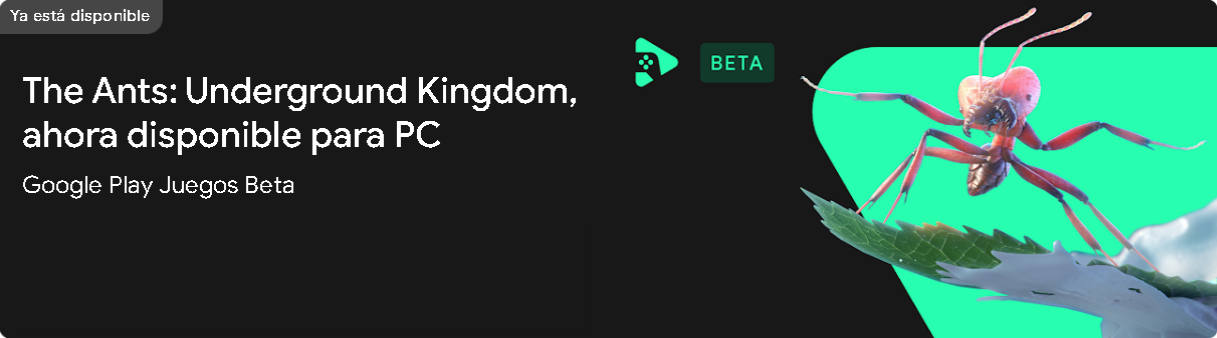
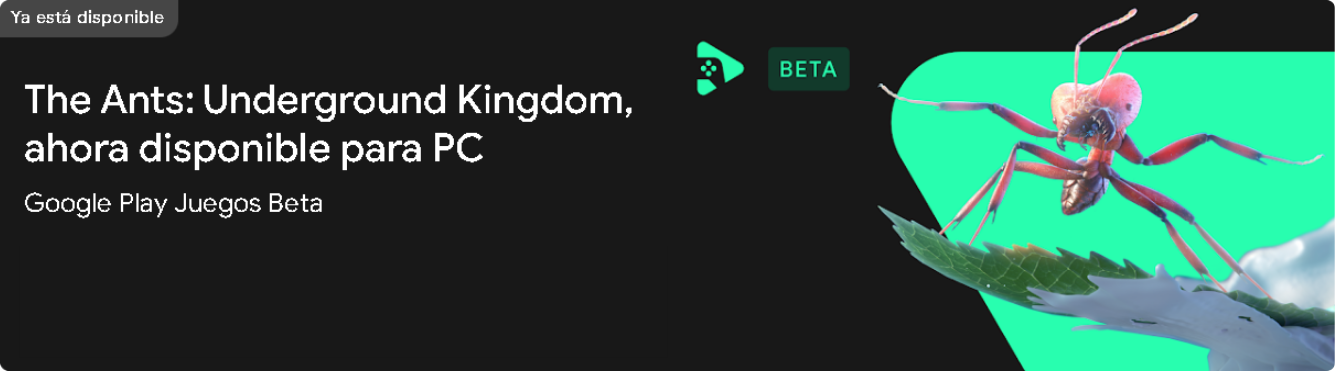
ok

diff --git a/index.html b/index.html
@@ -46,7 +46,7 @@
                     <img src="img/logo.png" class="logo_game">
                     <div class="text_game">
                         <h4>Arknights</h4>
-                        <p>Estrategia • Defensa de torres 4.6 &#9733;</p>
+                        <p>Estrategia • Defensa de torres</p>
                         <p>4.6 &#9733;</p>
                     </div>
                 </div>
@@ -58,7 +58,7 @@
                     <img src="img/logo2.png" class="logo_game">
                     <div class="text_game">
                         <h4>Arknights</h4>
-                        <p>Estrategia • Defensa de torres 4.6 &#9733;</p>
+                        <p>Estrategia • Defensa de torres</p>
                         <p>4.6 &#9733;</p>
                     </div>
                 </div>
@@ -70,7 +70,7 @@
                     <img src="img/logo3.png" class="logo_game">
                     <div class="text_game">
                         <h4>Arknights</h4>
-                        <p>Estrategia • Defensa de torres 4.6 &#9733;</p>
+                        <p>Estrategia • Defensa de torres</p>
                         <p>4.6 &#9733;</p>
                     </div>
                 </div>
@@ -79,8 +79,20 @@
             <section id="anuncio">
                 <img src="img/anuncio.png" class="anuncio">
             </section>
-            <section id="anuncio2">
-            
+            <section class="contenedor">
+                <section id="anuncio2">
+                    <div class="info_anuncio">
+                        <img src="img/logo4.png" class="logo_game">
+                        <div class="text_game">
+                            <h3>The Ants: Underground Kingdom</h3>
+                            <p>StarUnion •  <img src="img/clasificacion.png"></p>
+                        </div>
+                        <div class="descargar">
+                            <button class="btn_descargar">Instalar en windows</button>
+                            <p>Compras directas desde la app</p>
+                        </div>
+                    </div>
+                </section>
             </section>
         </section>
     </section>

diff --git a/style.css b/style.css
@@ -100,7 +100,7 @@ ul {
     cursor: default;
 }
 
- /*aqui va al diseño de los juegos que aparecen en la pagina*/
+/*aqui va al diseño de los juegos que aparecen en la pagina*/
 
 #container {
     margin-left: 60px;
@@ -157,16 +157,10 @@ h4 {
 
 /*anuncios*/
 #anuncio {
-    margin-top: 80px;
+    margin-top: 60px;
     width: 1335px;
+    height: 371px;
     padding: 15px;
-    border-radius: 20px;
-    cursor: pointer;
-}
-#anuncio2 {
-    margin-top: 80px;
-    width: 1335px;
-    height: 338px;
     border-radius: 20px;
     cursor: pointer;
 }
@@ -175,3 +169,42 @@ h4 {
     width: 100%;
     border-radius: 20px;
 }
+
+#anuncio2 {
+    margin-top: 35px;
+    width: 100%;
+    height: 100%;
+    border-radius: 20px;
+    cursor: pointer;
+    background-image: url(img/anuncio2.png);
+    display: flex;
+    align-items: end;
+}
+
+.contenedor {
+    width: 1335px;
+    height: 371px;
+    padding: 15px;
+}
+
+.info_anuncio {
+    display: flex;
+    align-items: center;
+    margin: 30px;
+    color: #ffff;
+}
+
+.descargar {
+    margin-left: 40px;
+    display: flex;
+    flex-flow: column;
+}
+
+.btn_descargar {
+    background-color: #28feaf;
+    border-radius: 20px;
+    height: 40px;
+    color: black;
+    cursor: pointer;
+}
+
